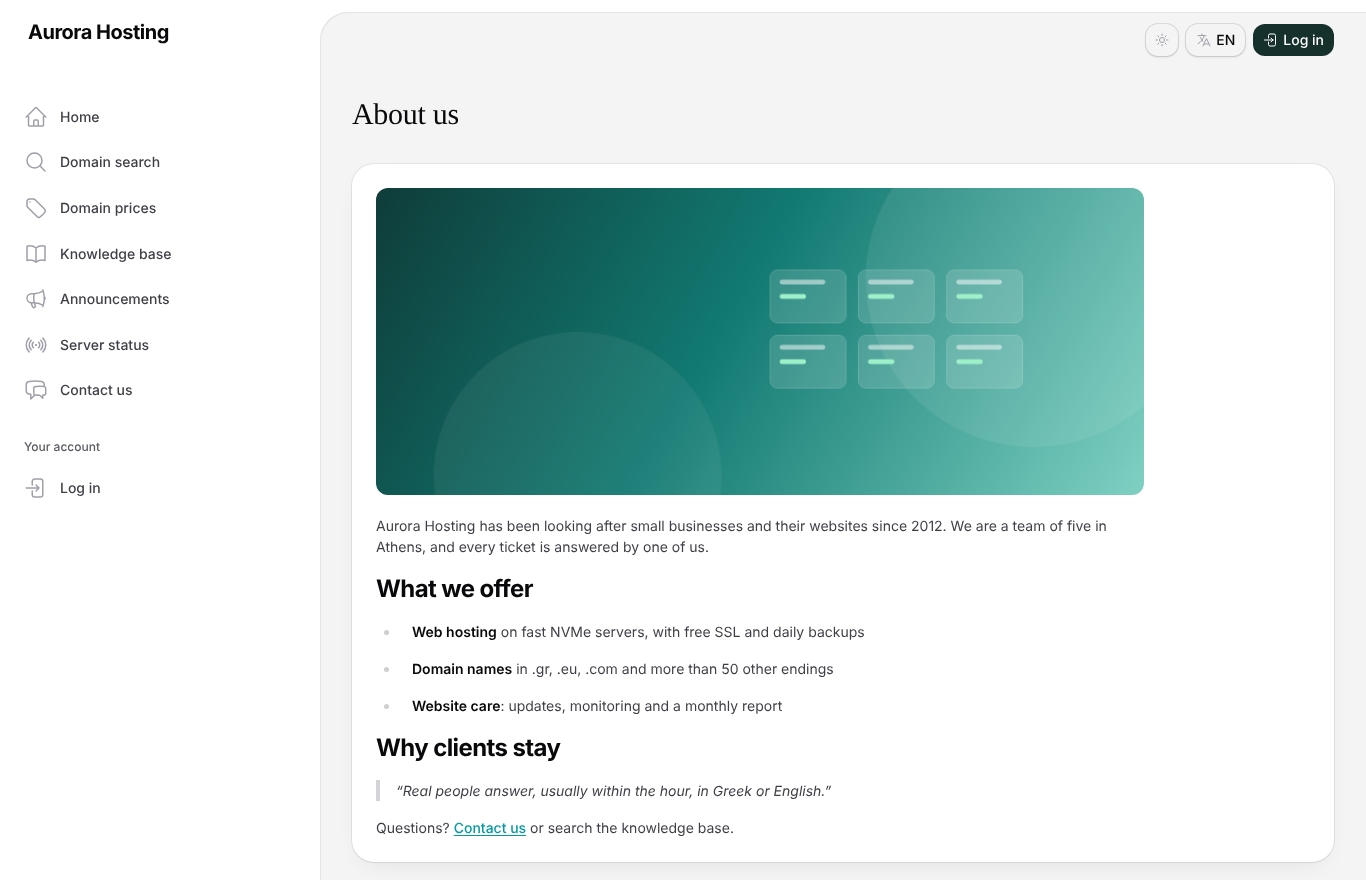
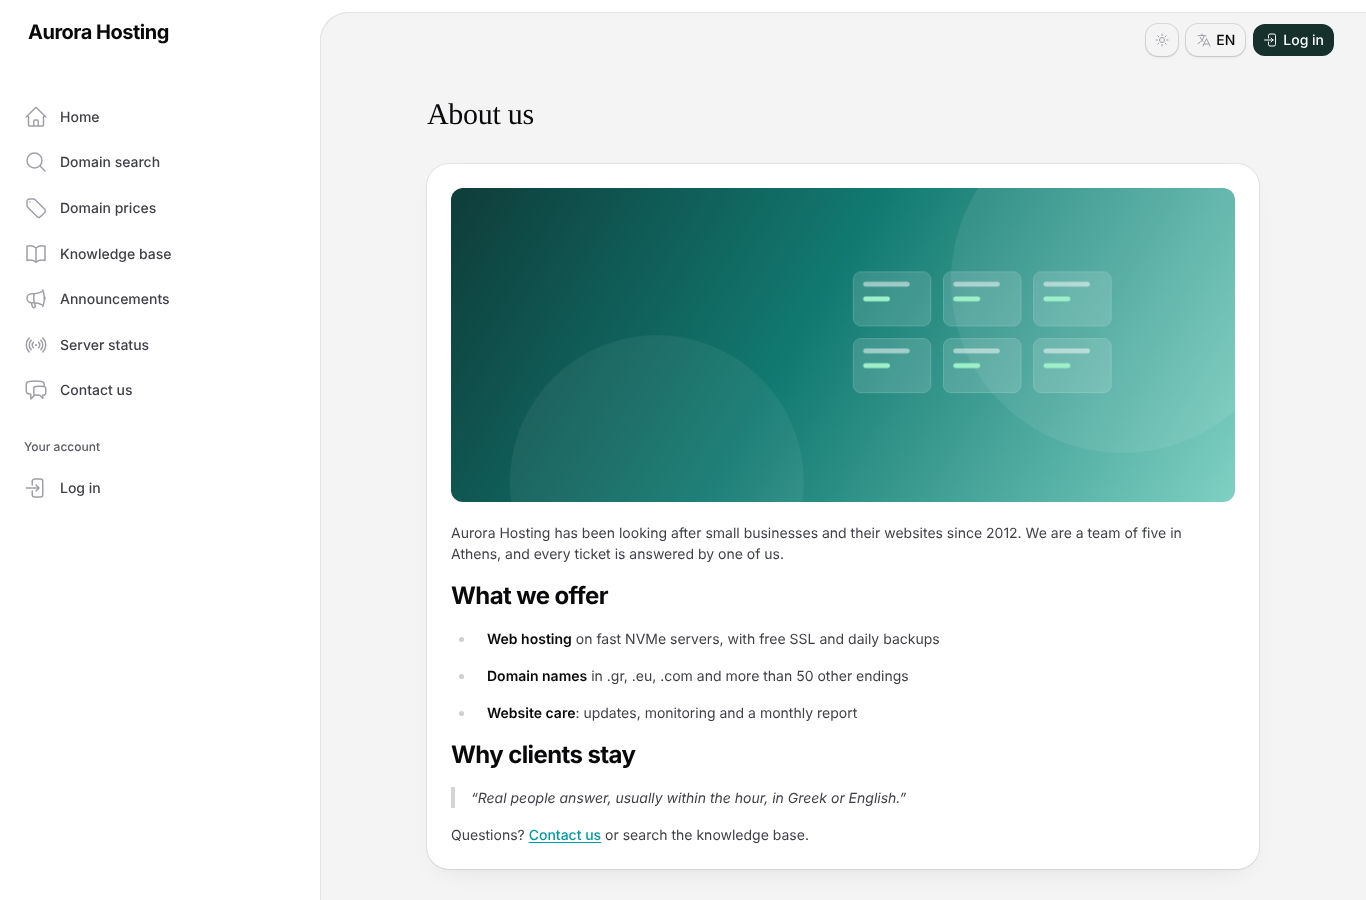
Release 0.5.0
VERSION 0.5.0 and the Unreleased notes moved under [0.5.0] - 2026-11-01,
with lines for the phone fixes (#41, #42), the pages' centred column (#48)
and the README. The page screenshot is taken again with the centred column.

Claude-Session: https://claude.ai/code/session_01SDRTvMX1BzMw7msGgfXRbY

diff --git a/CHANGELOG.md b/CHANGELOG.md
@@ -5,34 +5,39 @@ Every release of GaiaCP, newest first. The version number is in the `VERSION` fi
 
 ## [Unreleased]
 
+## [0.5.0] - 2026-11-01
+
 - Pages of your own (Support → Pages): About us, your terms or a guide, written with an editor (headings, lists,
   links, quotes, tables, pictures), a text per language, at `/pages/…`. Published or a draft, for everyone or only for
-  clients; add them to either side menu under Settings → Client area → Menus. Public ones are in the sitemap; a featured image shows above the text and in link previews.
-- Visitors' top bar: the light / dark mode button is an outlined button like the language one next to it.
+  clients; add them to either side menu under Settings → Client area → Menus. Public ones are in the sitemap; a
+  featured image shows above the text and in link previews. The text sits in a centred column, like the contact page.
+- Menus (Settings → Client area → Menus): the client area's side menu, for logged-in clients and for visitors, as a
+  list you drag into order. Rename a page in each language, give it another icon or take it out, and add products,
+  product groups, links (opening in a new tab if you like) and headings of your own. Pages added by later updates
+  appear in their section by themselves; Reset to default puts the menus back.
 - Other ways to log in (Settings → Security → Login security): passkeys on both logins (each admin and client adds
   theirs from their profile, then logs in with a fingerprint, face or screen lock; no two-factor code after one), and
   "Email me a sign-in link" (one use, 15 minutes; on in the client area, off for admins until ticked; two-factor is
   still asked). The login pages mark the way this browser last used "Last used".
 - Google sign-in 1.1.0: admins can log in to /admin with Google too when ticked in its settings; two-factor is asked
   after Google instead of refusing the login.
-
 - WHOIS lookup (Settings → Public area → WHOIS lookup, off by default): visitors and clients look up a domain name at
   `/whois` and see whether it is registered, its registrar, dates, statuses and nameservers, never the owner's contact
   details. It asks the registry's RDAP server, else its WHOIS server, with the domain search's captcha and a limit.
 - Downloads (Support → Downloads): files for clients in categories, with a title and description per language, for
   everyone, clients who are logged in, or only the clients of chosen products. They show under Support → Downloads in
   the client area, are never at a public address, and are counted.
-- Admin menu: Quotes moved to the main group, after Orders; Billing now reads Payment notices, Payments, Invoices,
-  Coupons, Reports.
 - The admin panel and the client area open in light mode instead of following the device's setting. Dark and
   System are still in the user menu, and a choice already made in a browser is kept there.
-- Menus (Settings → Client area → Menus): the client area's side menu, for logged-in clients and for visitors, as a
-  list you drag into order. Rename a page in each language, give it another icon or take it out, and add products,
-  product groups, links (opening in a new tab if you like) and headings of your own. Pages added by later updates
-  appear in their section by themselves; Reset to default puts the menus back.
+- Admin menu: Quotes moved to the main group, after Orders; Billing now reads Payment notices, Payments, Invoices,
+  Coupons, Reports.
 - The compare packages table is easier on a phone: the feature names sit in a narrow column that scrolls away with
   the packages, and the table nudges sideways when it comes into view and when another package is chosen, as a hint
   that it scrolls.
+- On a phone: Devices and sign-ins fits long IPv6 addresses and shows the current sign-in as stacked rows, and the
+  top bar's search and icon buttons have even gaps.
+- Visitors' top bar: the light / dark mode button is an outlined button like the language one next to it.
+- The README on GitHub has new light-mode screenshots and lists the features added since 0.3.
 
 ## [0.4.0] - 2026-10-31
 
